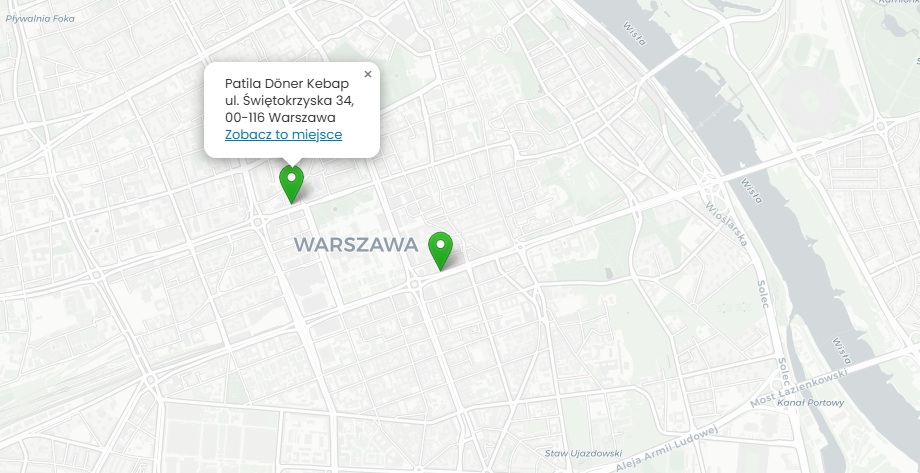
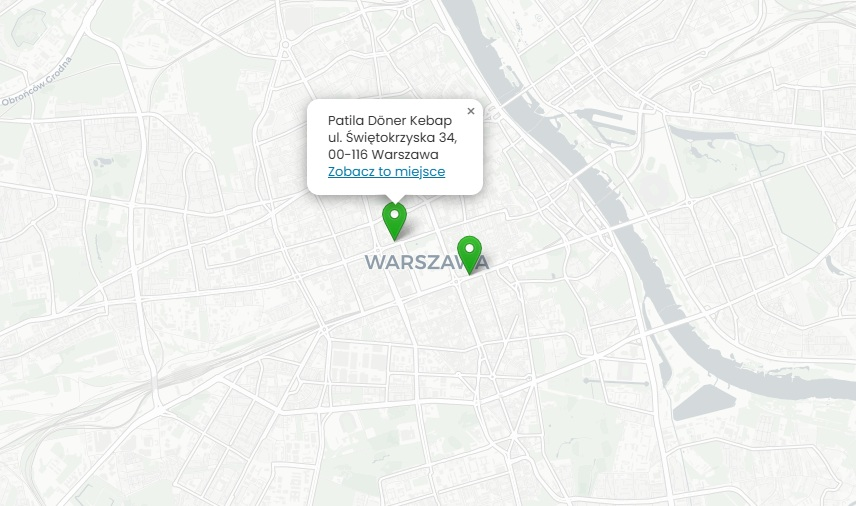
add gluten free map section to main page

diff --git a/src/sass/main-page/_map_section.scss b/src/sass/main-page/_map_section.scss
@@ -1,0 +1,42 @@
+#mapa {
+  position: relative;
+  display: flex;
+  justify-content: center;
+  align-items: center;
+  width: 100%;
+  background-color: $light-grey-bg;
+  z-index: 0;
+  .map-section-wrapper {
+    display: flex;
+    flex-direction: column;
+    width: 100%;
+    max-width: 1280px;
+    margin: 0 auto;
+    padding: 140px 16px 168px 16px;
+    @media (max-width: 992px) {
+      padding: 40px 16px 64px;
+    }
+    &__link {
+      display: flex;
+      justify-content: center;
+      align-items: center;
+      width: fit-content;
+      margin: 0 auto;
+      overflow: hidden;
+      border-radius: 24px;
+      box-shadow: 0px 9px 28px 8px #0000000d, 0px 3px 6px -4px #0000001f,
+        0px 6px 16px 0px #00000014;
+    }
+    &__img {
+      transition: 0.8s;
+      &:hover {
+        opacity: 0.9;
+        transform: scale(1.1);
+      }
+      @media (max-width: 992px) {
+        width: 100%;
+        object-fit: cover;
+      }
+    }
+  }
+}

diff --git a/src/components/main-page/MapSection.tsx b/src/components/main-page/MapSection.tsx
@@ -1,0 +1,33 @@
+import React from "react";
+import Image from "next/image";
+import Link from "next/link";
+import glutenFreeMap from "./../../../public/img/map/gluten-free-map.jpg";
+
+const MapSection = () => {
+  return (
+    <section id="mapa" className="map-section">
+      <div className="map-section-wrapper">
+        <div className="section-title">
+          <h2>Mapa restauracji/miejsc gluten free</h2>
+          <h4>Kliknij w mapę i sprawdź więcej miejsc.</h4>
+        </div>
+        <div>
+          <Link
+            className="map-section-wrapper__link"
+            href="/bezglutenowe-miejsca"
+          >
+            <Image
+              className="map-section-wrapper__img"
+              src={glutenFreeMap}
+              alt="Mapa restauracji/miejsc gluten free"
+              width={856}
+              height={506}
+            />
+          </Link>
+        </div>
+      </div>
+    </section>
+  );
+};
+
+export default MapSection;

diff --git a/src/sass/common/_sections.scss b/src/sass/common/_sections.scss
@@ -10,13 +10,28 @@ section {
   }
   .section-title {
     display: flex;
+    flex-direction: column;
     justify-content: center;
     align-items: center;
     margin: 0 auto 24px;
     width: auto;
     h2 {
+      display: flex;
+      justify-content: center;
+      align-items: center;
+      text-align: center;
+      width: 100%;
+      margin-bottom: 24px;
+      font-size: 26px;
+      line-height: 32px;
       padding: 0 8px 6px 8px;
       border-bottom: 2px solid $color-green01;
+    }
+    h4 {
+      font-weight: 400;
+      @media (max-width: 992px) {
+        font-size: 14px;
+      }
     }
     @media (max-width: 992px) {
       h1 {

diff --git a/src/pages/index.tsx b/src/pages/index.tsx
@@ -16,6 +16,7 @@ import Events from "@/components/main-page/Events";
 import CeliacDiseaseBasicInfoSection from "@/components/main-page/CeliacDiseaseBasicInfoSection";
 import CeliacDiseaseWhatsNextSection from "@/components/main-page/CeliacDiseaseWhatsNextSection";
 import VideoSection from "@/components/main-page/VideoSection";
+import MapSection from "@/components/main-page/MapSection";
 
 const index = () => {
   return (
@@ -36,6 +37,7 @@ const index = () => {
         <CeliacDiseaseWhatsNextSection />
         <Events />
         <CooperationSection />
+        <MapSection />
         <Contact />
       </main>
       <footer>

diff --git a/src/sass/main.scss b/src/sass/main.scss
@@ -25,6 +25,7 @@
 @import "./main-page/cooperation_section";
 @import "./main-page/video_section";
 @import "./main-page/events";
+@import "./main-page/map_section";
 @import "./main-page/contact";
 
 // Listings

diff --git a/src/sass/main-page/_contact.scss b/src/sass/main-page/_contact.scss
@@ -2,7 +2,6 @@
   position: relative;
   display: flex;
   width: 100%;
-  background-color: $light-grey-bg;
   z-index: 0;
   .contact-wrapper {
     display: flex;
